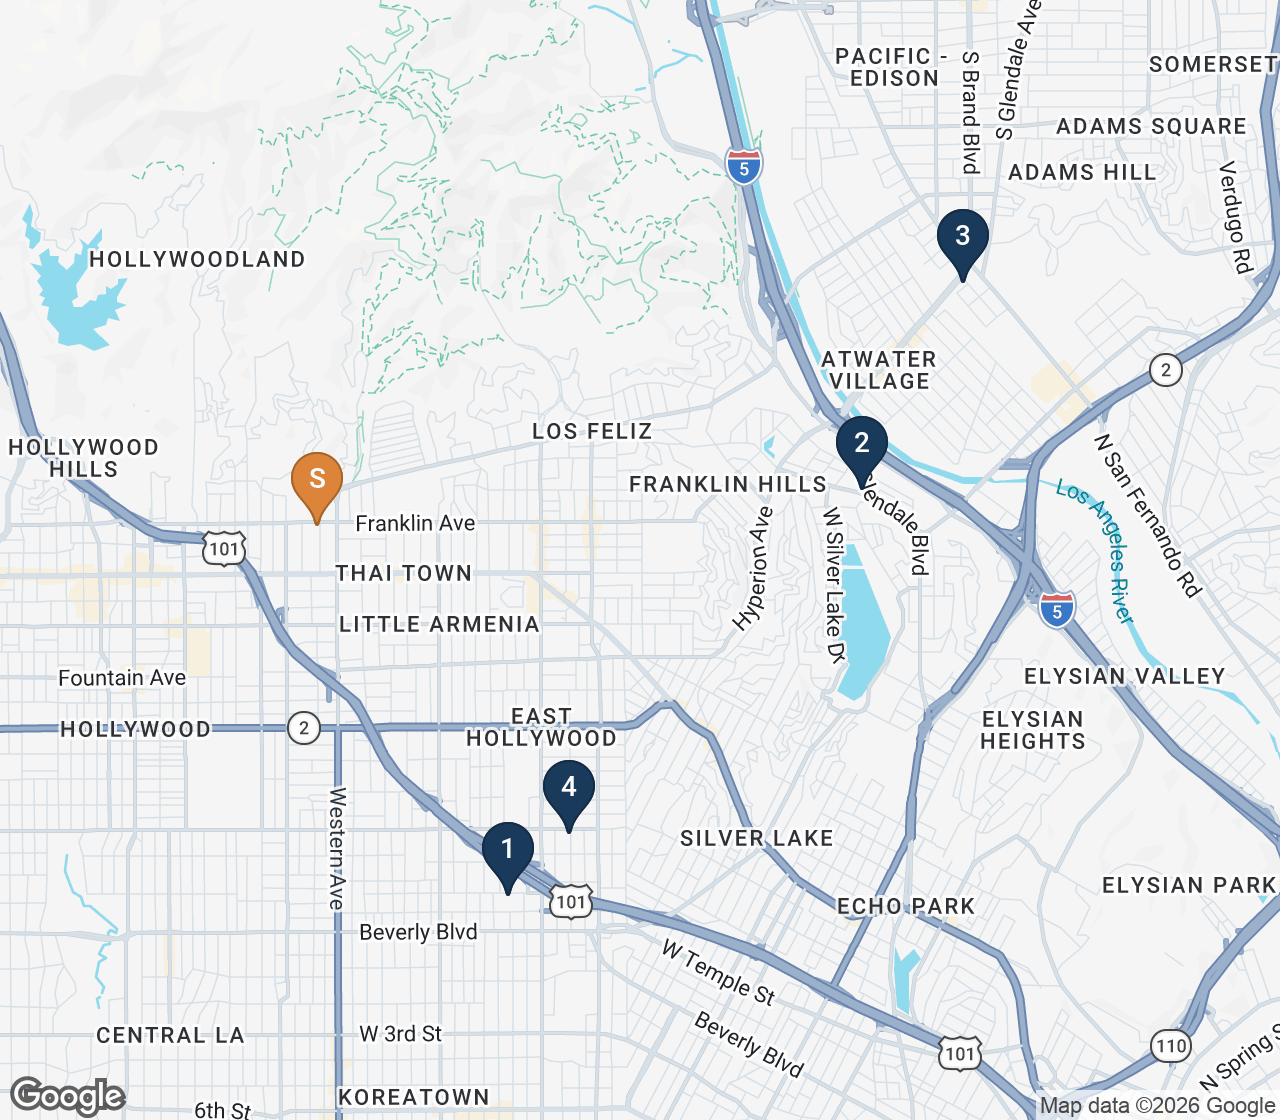
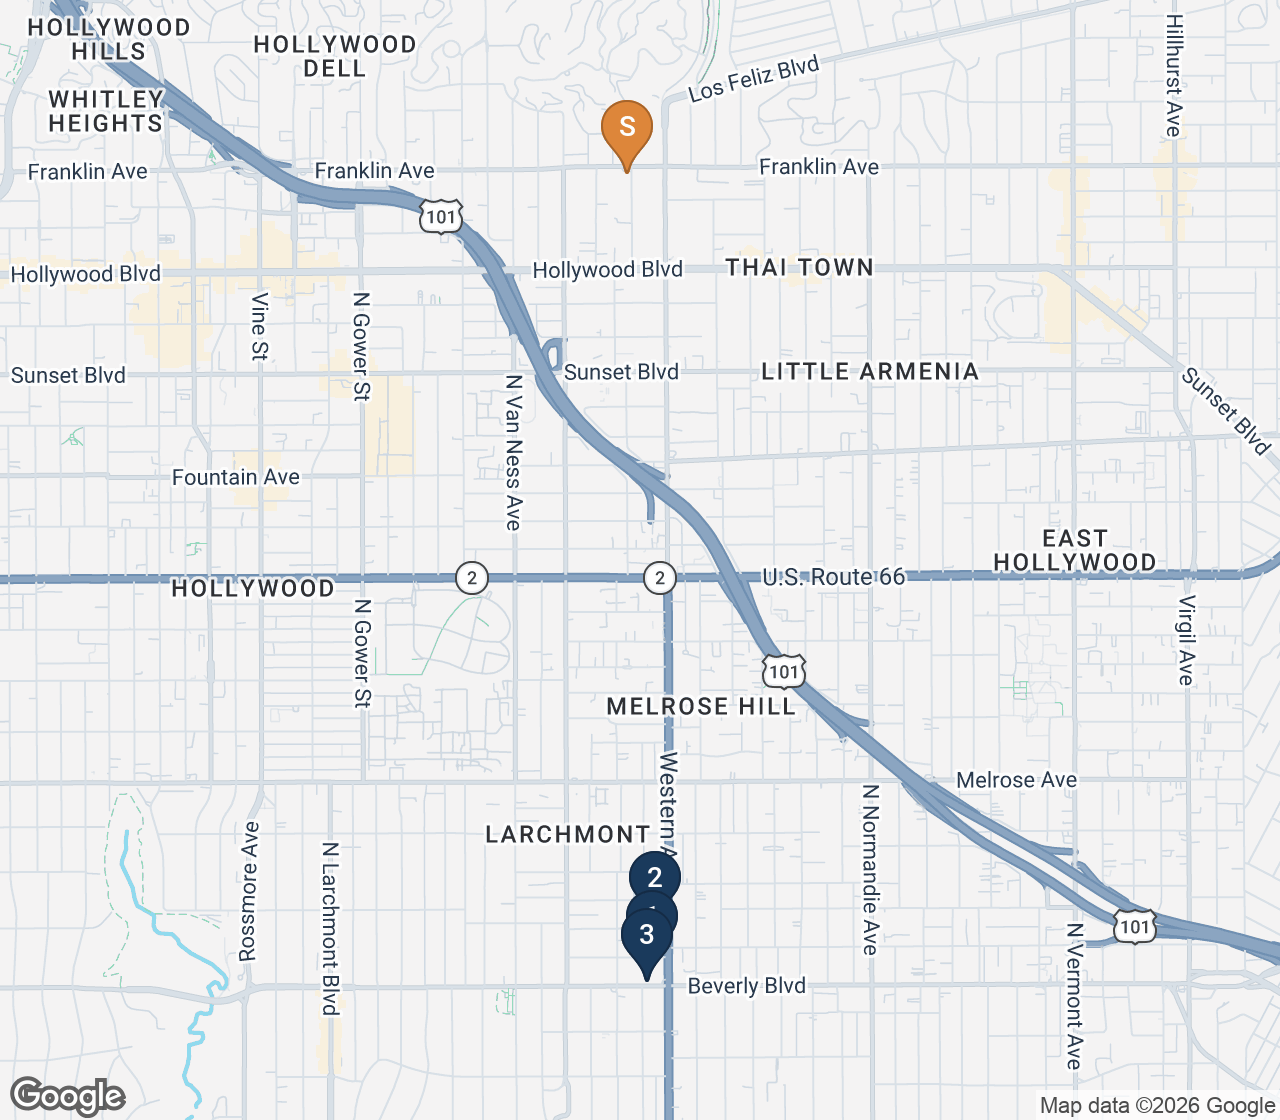
Land comps = Oakwood/Elmwood/Beverly LAAA deals w/ PPSF + new comp map; add Rent Comparables section (6 linked lease-ups)

Changed region(s): [[0.0, 0.0, 1.0, 1.0]]

diff --git a/index.html b/index.html
@@ -216,7 +216,7 @@ td.num, th.num { text-align: right; }
   .tr-map-print { display: block; width: 100%; height: 240px; border-radius: 4px; overflow: hidden; }
   .tr-map-print img { width: 100%; height: 100%; object-fit: cover; }
   .price-reveal { page-break-before: always; }
-  #project, #plans, #pathways, #land-comps, #economics, #marketing { page-break-before: always; }
+  #project, #plans, #pathways, #land-comps, #rent-comps, #economics, #marketing { page-break-before: always; }
   .footer { page-break-before: always; }
   table { font-size: 10px; } th { padding: 5px 8px; font-size: 9px; } td { padding: 4px 8px; }
 }
@@ -257,6 +257,7 @@ td.num, th.num { text-align: right; }
   <a href="#plans">Plans &amp; Site</a>
   <a href="#pathways">Sell vs. Build</a>
   <a href="#land-comps">Land Comps</a>
+  <a href="#rent-comps">Rent Comps</a>
   <a href="#economics">Economics</a>
   <a href="#pricing">Pricing</a>
   <a href="#contact">Contact</a>
@@ -551,24 +552,40 @@ td.num, th.num { text-align: right; }
 <div class="page-break-marker"></div>
 <div class="section" id="land-comps">
   <div class="section-title">Land Sale Comparables</div>
-  <div class="section-subtitle">Entitled Multifamily Sites &middot; Per the C&amp;W Appraisal</div>
+  <div class="section-subtitle">LAAA / Marcus &amp; Millichap Development-Site Deal Flow</div>
   <div class="section-divider"></div>
   <div class="table-scroll"><table>
-    <thead><tr><th>#</th><th>Property</th><th class="num">Site SF</th><th class="num">Units</th><th>Zoning</th><th>Sale Date</th><th class="num">Sale Price</th><th class="num">$ / Unit</th><th class="num">Adj. $ / Unit</th></tr></thead>
+    <thead><tr><th>#</th><th>Property</th><th>Status</th><th class="num">Lot SF</th><th>Zoning</th><th class="num">Unit Program</th><th class="num">Price</th><th class="num">$ / Land SF</th></tr></thead>
     <tbody>
-      <tr class="highlight"><td>S</td><td><strong>5600 Franklin Ave (subject)</strong></td><td class="num">18,997</td><td class="num">48</td><td>R3-1, TOC 3</td><td>&mdash;</td><td class="num">&mdash;</td><td class="num">&mdash;</td><td class="num">&mdash;</td></tr>
-      <tr><td>1</td><td>4136 Rosewood Ave, Los Angeles</td><td class="num">9,902</td><td class="num">16</td><td>R4-1</td><td>Feb-24</td><td class="num">$1,460,000</td><td class="num">$91,250</td><td class="num">$96,615</td></tr>
-      <tr><td>2</td><td>2771 Rowena Ave, Los Angeles (Silver Lake)</td><td class="num">12,876</td><td class="num">39</td><td>C4-1D</td><td>Sep-23</td><td class="num">$3,450,000</td><td class="num">$88,462</td><td class="num">$90,866</td></tr>
-      <tr><td>3</td><td>1838 S Brand Blvd, Glendale</td><td class="num">27,595</td><td class="num">80</td><td>SFMU</td><td>Aug-22</td><td class="num">$8,080,000</td><td class="num">$101,000</td><td class="num">$101,853</td></tr>
-      <tr><td>4</td><td>4100 Melrose Ave, Los Angeles</td><td class="num">15,004</td><td class="num">33</td><td>C2-1</td><td>Jul-22</td><td class="num">$3,850,000</td><td class="num">$116,667</td><td class="num">$101,864</td></tr>
-      <tr class="summary"><td colspan="6"><strong>Adjusted range (C&amp;W) &middot; concluded $95,000/unit &times; 48 units</strong></td><td class="num"><strong>&rarr; $4,600,000</strong></td><td class="num"><strong>$88,462&ndash;$116,667</strong></td><td class="num"><strong>$90,866&ndash;$101,864</strong></td></tr>
+      <tr class="highlight"><td>S</td><td><strong>5600 Franklin Ave (subject)</strong></td><td>Suggested list</td><td class="num">18,997</td><td>R3-1, TOC Tier 3</td><td class="num">48 (41 RTI + 7 ADU)</td><td class="num">$4,500,000</td><td class="num"><strong>$237</strong></td></tr>
+      <tr><td>1</td><td>4718-4726 Oakwood Ave, Los Angeles 90004</td><td><strong>Closed 2/27/2026</strong></td><td class="num">&plusmn;22,310</td><td>R3-1</td><td class="num">&mdash;</td><td class="num">$4,700,000</td><td class="num">$211</td></tr>
+      <tr><td>2</td><td>4705-4709 Elmwood Ave, Los Angeles 90004</td><td>On market (M&amp;M)</td><td class="num">14,499</td><td>C2-1</td><td class="num">103 (ED1)</td><td class="num">$3,050,000</td><td class="num">$210</td></tr>
+      <tr><td>3</td><td>4623-4631 Beverly Blvd, Los Angeles 90004</td><td>In escrow &middot; close sched. 8/2026</td><td class="num">21,052</td><td>C2-1</td><td class="num">121 (MIIP)</td><td class="num">$4,975,000 <span style="color:#888;">(list)</span></td><td class="num">$236</td></tr>
     </tbody>
   </table></div>
-  <p style="font-size:12px;color:#666;margin-top:-12px;">Comparables, adjustments, and conclusion per the Cushman &amp; Wakefield appraisal (Land Valuation section, value date 11/3/2025). Adjusted values reflect C&amp;W's market-condition, location, and zoning adjustments; C&amp;W weighted Sale 1 (most recent) most heavily.</p>
+  <p style="font-size:12px;color:#666;margin-top:-12px;">All three comparables are LAAA / Marcus &amp; Millichap-controlled development-site transactions in the Beverly/Wilton corridor of 90004 &mdash; deals we know from the inside, not screen-scraped data. Oakwood (three parcels, R3-1 &mdash; the subject's zoning) <strong>closed February 27, 2026 at $4,700,000, or $211 per land SF</strong>. Elmwood (two parcels, ED1 program for 103 units) is on the market at $210/SF; Beverly (121-unit MIIP site) is in escrow off a $4,975,000 list ($236/SF), scheduled to close August 2026. Against that $210&ndash;$236/SF band for sites still needing permits, the subject's suggested list works out to <strong>$237 per land SF with the entitlement work already done</strong> &mdash; stamped RTI plans, a bank appraisal in hand, and a Franklin Village corner location superior to the comp corridor. Lot areas per LA County assessor parcel geometry; pricing per LAAA transaction records and the listing brokers.</p>
   <div class="loc-wide-map comp-map"><img src="images/land_comp_map.png" alt="Land comparable map"></div>
-  <div class="condition-note"><div class="condition-note-label">Market Check &middot; Active RTI Inventory</div>
-    LAAA currently represents comparable RTI product across the basin - including a 39-unit RTI TOC site in Echo Park asking $3,000,000 ($76,923/unit). That site prices below the subject's band for structural reasons: an interior Echo Park street versus a signalized Franklin Village corner, no bank appraisal in hand, no approved construction financing, and a unit program without the subject's oversized 1BR/2BA floor plans and pool-deck amenity package. The spread between that listing and the C&amp;W-supported $95,000/unit on the subject is the location-and-readiness premium a buyer is being asked to pay - and the comp set above supports it.
-  </div>
+</div>
+
+<!-- RENT COMPS -->
+<div class="page-break-marker"></div>
+<div class="section section-alt" id="rent-comps">
+  <div class="section-title">Rent Comparables</div>
+  <div class="section-subtitle">Hollywood Institutional Lease-Ups &middot; Current Askings, July 2026</div>
+  <div class="section-divider"></div>
+  <div class="table-scroll"><table>
+    <thead><tr><th>Property</th><th>Address</th><th>Product</th><th class="num">Current Asking</th><th>Notes</th></tr></thead>
+    <tbody>
+      <tr class="highlight"><td><strong>5600 Franklin Ave (subject, proposed)</strong></td><td>Franklin Ave &amp; Garfield Pl</td><td>Studio &middot; 1BR/2BA &middot; 2BR ADU (832 SF avg)</td><td class="num"><strong>$3,900&ndash;$4,300</strong></td><td>C&amp;W projected market rents; 2027 delivery, pool &amp; deck</td></tr>
+      <tr><td><a href="https://www.apartments.com/arrive-hollywood-hollywood-ca/cmv3yrg/" target="_blank" rel="noopener">Arrive Hollywood</a></td><td>6201 Hollywood Blvd</td><td>Studio&ndash;2BR</td><td class="num">$2,121&ndash;$4,509</td><td>Studios $2,189&ndash;$2,409 (563&ndash;624 SF)</td></tr>
+      <tr><td><a href="https://www.apartments.com/el-centro-apartments-and-bungalows-hollywood-ca/m5m52rl/" target="_blank" rel="noopener">El Centro Apartments &amp; Bungalows</a></td><td>6200 Hollywood Blvd</td><td>Studio&ndash;2BR (577&ndash;1,309 SF)</td><td class="num">$2,149&ndash;$3,850</td><td>1BR $2,538&ndash;$2,838 &middot; 2BR $3,349&ndash;$3,850; up to 2 months free</td></tr>
+      <tr><td><a href="https://www.apartments.com/lumina-hollywood-los-angeles-ca/nrmg09n/" target="_blank" rel="noopener">Lumina Hollywood</a></td><td>1522 Gordon St</td><td>Studio&ndash;2BR (576&ndash;1,506 SF)</td><td class="num">$2,254&ndash;$3,327</td><td>Studios from $2,305 &middot; 1BR from $2,505</td></tr>
+      <tr><td><a href="https://www.apartments.com/sky-hollywood-los-angeles-ca/2v16sgc/" target="_blank" rel="noopener">Sky Hollywood</a></td><td>1550 N El Centro Ave</td><td>1BR&ndash;3BR penthouse</td><td class="num">2BR from $4,985</td><td>Premium tower; the complex traded Apr 2026 ($99M)</td></tr>
+      <tr><td><a href="https://www.apartments.com/fusion-hollywood-los-angeles-ca/edj369n/" target="_blank" rel="noopener">Fusion Hollywood</a></td><td>5750 Hollywood Blvd</td><td>Studio&ndash;2BR+ (552&ndash;2,038 SF)</td><td class="num">$2,300&ndash;$5,811</td><td>Tower traded Aug 2025 ($73.9M)</td></tr>
+      <tr><td><a href="https://www.apartments.com/modera-argyle-los-angeles-ca/gfvt2ky/" target="_blank" rel="noopener">Modera Argyle</a></td><td>6220 Selma Ave</td><td>1BR&ndash;3BR</td><td class="num">$2,659&ndash;$6,784</td><td>1BR from $2,600; up to 10 weeks free (lease-up)</td></tr>
+    </tbody>
+  </table></div>
+  <p class="narrative" style="font-size:13px;">How to read this set: these are Hollywood's institutional elevator buildings &mdash; 200&ndash;300-unit towers leasing with heavy concessions (up to two months free at El Centro, ten weeks at Modera Argyle). Their entry studios set the market floor at $2,100&ndash;$2,400, while their larger and premium units clear <strong>$4,500&ndash;$6,800 per month</strong> &mdash; demonstrating deep renter demand at and above the subject's $3,900&ndash;$4,300 projected price points. The subject competes from a different position: boutique 48-unit scale, oversized floor plans (848 SF one-bedroom/two-bath layouts against the towers' typical 550&ndash;700 SF), and a Franklin Village address a block above the boulevard. The closest boutique benchmarks &mdash; Gillis House leasing 757 SF studios at $4,270 and The Louise 4850 achieving $3,779 one-bedrooms, both per the C&amp;W survey &mdash; are the direct proof of the subject's rent basis. Askings surveyed July 2026 via the linked listings; concessions as advertised and subject to change.</p>
 </div>
 
 <!-- COMPLETED-PROJECT ECONOMICS -->